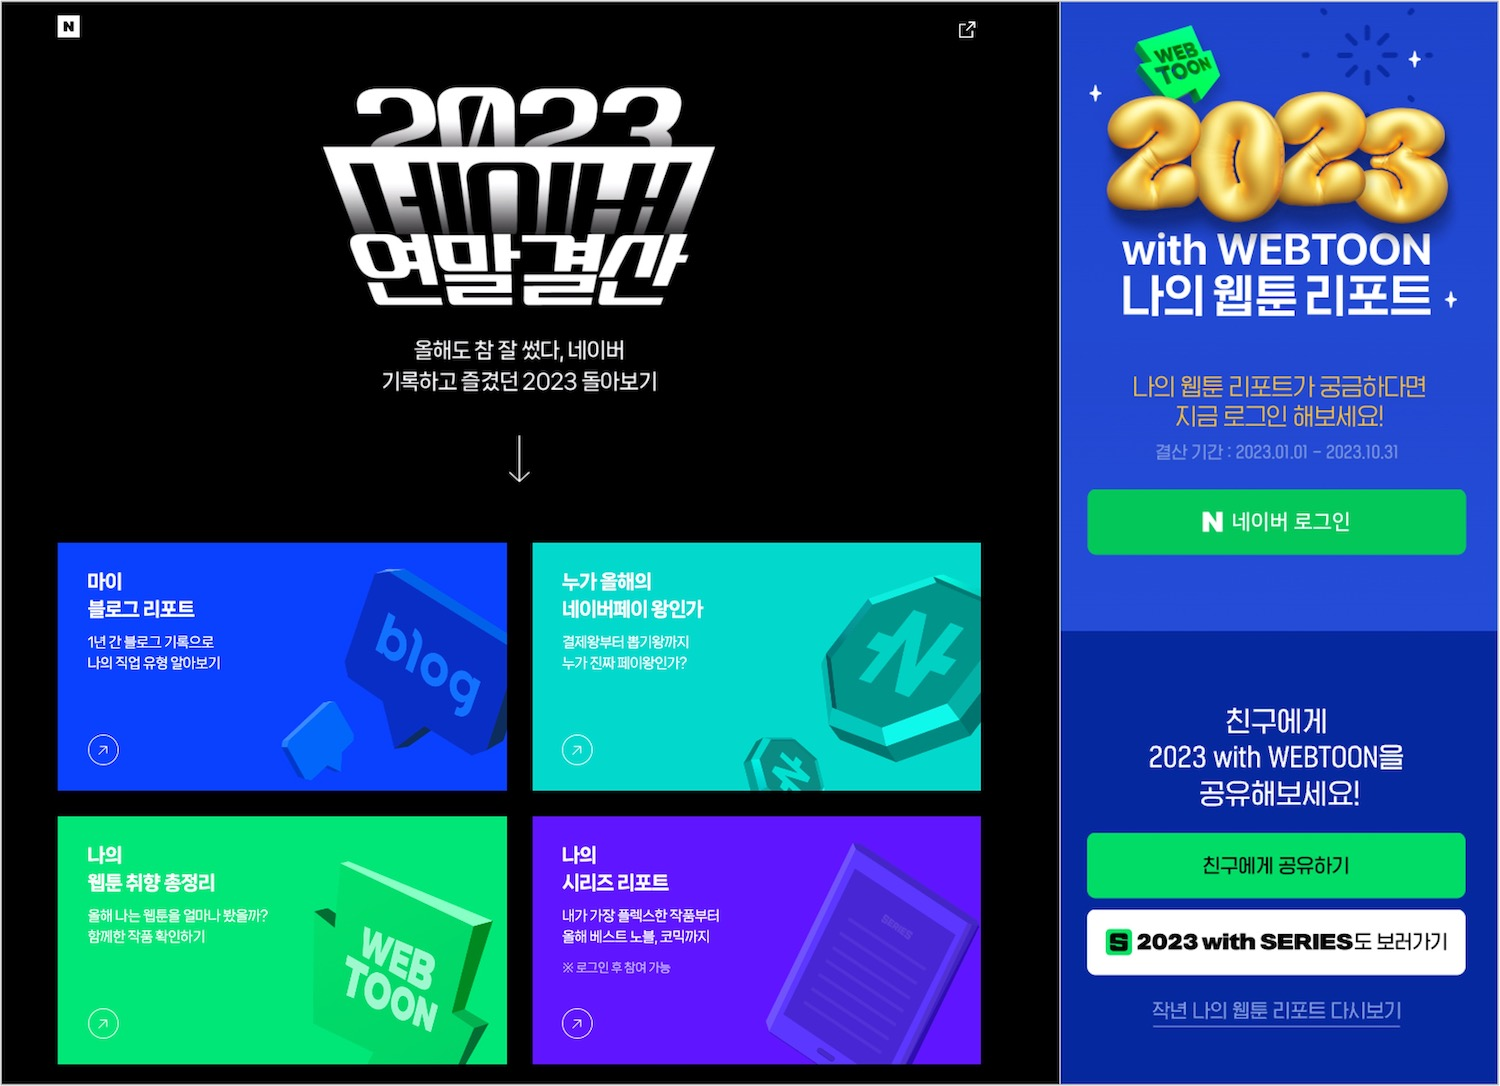
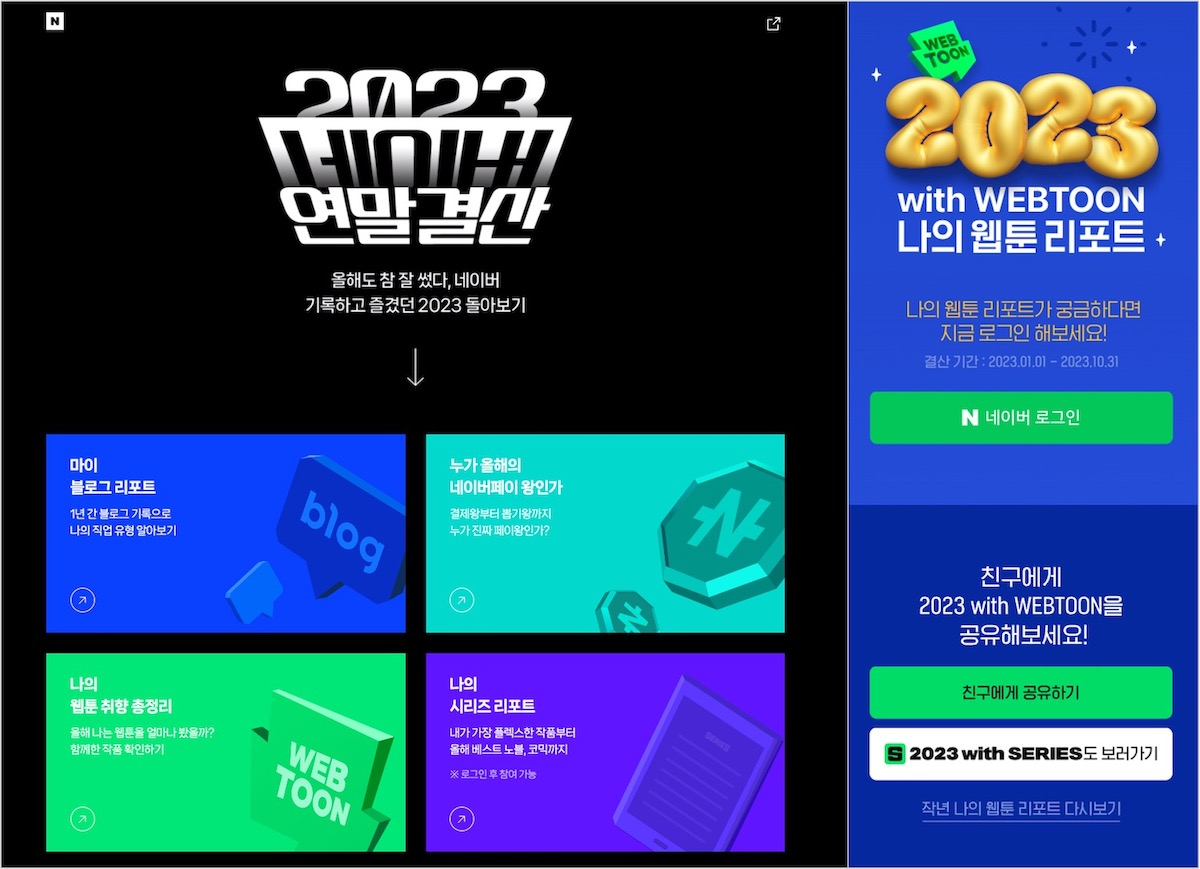
update 2023 회고 이미지 최적화 4

diff --git a/Article/Note/2023_회고_네이버웹툰_벡엔드_개발자로_일한다는것은/2023_회고_네이버웹툰_벡엔드_개발자로_일한다는것은.md b/Article/Note/2023_회고_네이버웹툰_벡엔드_개발자로_일한다는것은/2023_회고_네이버웹툰_벡엔드_개발자로_일한다는것은.md
@@ -76,7 +76,7 @@ __지금까지 작성한 회고 글__
 
 <br />
 <br />
-<img src="https://github.com/KoEonYack/Tistory-Coveant/blob/master/Article/Note/2023_%ED%9A%8C%EA%B3%A0_%EB%84%A4%EC%9D%B4%EB%B2%84%EC%9B%B9%ED%88%B0_%EB%B2%A1%EC%97%94%EB%93%9C_%EA%B0%9C%EB%B0%9C%EC%9E%90%EB%A1%9C_%EC%9D%BC%ED%95%9C%EB%8B%A4%EB%8A%94%EA%B2%83%EC%9D%80/img/home.jpg?raw=true" align="center" style="display: block; margin: 0px auto; display: block; height: auto; border:1px solid #eaeaea; padding: 0px;" width="100%" >
+<img src="https://github.com/KoEonYack/Tistory-Coveant/blob/master/Article/Note/2023_%ED%9A%8C%EA%B3%A0_%EB%84%A4%EC%9D%B4%EB%B2%84%EC%9B%B9%ED%88%B0_%EB%B2%A1%EC%97%94%EB%93%9C_%EA%B0%9C%EB%B0%9C%EC%9E%90%EB%A1%9C_%EC%9D%BC%ED%95%9C%EB%8B%A4%EB%8A%94%EA%B2%83%EC%9D%80/img/home_v2.jpg?raw=true" align="center" style="display: block; margin: 0px auto; display: block; height: auto; border:1px solid #eaeaea; padding: 0px;" width="100%" >
 <br />
 <img src="https://github.com/KoEonYack/Tistory-Coveant/blob/master/Article/Note/2023_%ED%9A%8C%EA%B3%A0_%EB%84%A4%EC%9D%B4%EB%B2%84%EC%9B%B9%ED%88%B0_%EB%B2%A1%EC%97%94%EB%93%9C_%EA%B0%9C%EB%B0%9C%EC%9E%90%EB%A1%9C_%EC%9D%BC%ED%95%9C%EB%8B%A4%EB%8A%94%EA%B2%83%EC%9D%80/img/pangyo_light.jpg?raw=true" align="center" style="display: block; margin: 0px auto; display: block; height: auto; border:1px solid #eaeaea; padding: 0px;" width="100%" >
 <br />
@@ -105,7 +105,7 @@ __지금까지 작성한 회고 글__
 탁 트인 탄천이 있어서 산책하거나 뛰기에 좋습니다. 걷다 보면 사옥을 많이 만나게 되는데 NHN, 넥슨, SK플래닛 사옥 삼대장은 멀리서도 잘 보입니다. 탄천에서 바로 올라와 삼평동 쪽을 올라서 걷다 보면 더 많은 회사를 만나게 되는데 우연히 인프랩 사옥을 봐서 내적 친밀감에 사진 한방 찍었습니다. ~~(인프랩 헤비 과금러로서 인프랩 기둥 하나 제 것입니다.)~~
 
 <br />
-<img src="https://github.com/KoEonYack/Tistory-Coveant/blob/master/Article/Note/2023_%ED%9A%8C%EA%B3%A0_%EB%84%A4%EC%9D%B4%EB%B2%84%EC%9B%B9%ED%88%B0_%EB%B2%A1%EC%97%94%EB%93%9C_%EA%B0%9C%EB%B0%9C%EC%9E%90%EB%A1%9C_%EC%9D%BC%ED%95%9C%EB%8B%A4%EB%8A%94%EA%B2%83%EC%9D%80/img/gxg.jpg?raw=true" align="center" style="display: block; margin: 0px auto; display: block; height: auto; border:1px solid #eaeaea; padding: 0px;" width="100%" >
+<img src="https://github.com/KoEonYack/Tistory-Coveant/blob/master/Article/Note/2023_%ED%9A%8C%EA%B3%A0_%EB%84%A4%EC%9D%B4%EB%B2%84%EC%9B%B9%ED%88%B0_%EB%B2%A1%EC%97%94%EB%93%9C_%EA%B0%9C%EB%B0%9C%EC%9E%90%EB%A1%9C_%EC%9D%BC%ED%95%9C%EB%8B%A4%EB%8A%94%EA%B2%83%EC%9D%80/img/gxg_light.jpg?raw=true" align="center" style="display: block; margin: 0px auto; display: block; height: auto; border:1px solid #eaeaea; padding: 0px;" width="100%" >
 <br />
 <center>
 좌. 판교 테크원 내부 GXG 2023 홍보 배너 <br />
@@ -183,7 +183,7 @@ Source. NAVER WEBTOON. (*사내 사옥을 개인적인 촬영분을 공개하기
 ## 2-2. 밥
 
 <br />
-<img src="https://github.com/KoEonYack/Tistory-Coveant/blob/master/Article/Note/2023_%ED%9A%8C%EA%B3%A0_%EB%84%A4%EC%9D%B4%EB%B2%84%EC%9B%B9%ED%88%B0_%EB%B2%A1%EC%97%94%EB%93%9C_%EA%B0%9C%EB%B0%9C%EC%9E%90%EB%A1%9C_%EC%9D%BC%ED%95%9C%EB%8B%A4%EB%8A%94%EA%B2%83%EC%9D%80/img/food_light.jpg?raw=true" align="center" style="display: block; margin: 0px auto; display: block; height: auto; border:1px solid #eaeaea; padding: 0px;" width="100%" >
+<img src="https://github.com/KoEonYack/Tistory-Coveant/blob/master/Article/Note/2023_%ED%9A%8C%EA%B3%A0_%EB%84%A4%EC%9D%B4%EB%B2%84%EC%9B%B9%ED%88%B0_%EB%B2%A1%EC%97%94%EB%93%9C_%EA%B0%9C%EB%B0%9C%EC%9E%90%EB%A1%9C_%EC%9D%BC%ED%95%9C%EB%8B%A4%EB%8A%94%EA%B2%83%EC%9D%80/img/food_light_v2.jpg?raw=true" align="center" style="display: block; margin: 0px auto; display: block; height: auto; border:1px solid #eaeaea; padding: 0px;" width="100%" >
 <br />
 <center>
 신림동 시절 출근의 원동력이었던 테크원 구내식당
@@ -225,7 +225,7 @@ Source. NAVER WEBTOON. (*사내 사옥을 개인적인 촬영분을 공개하기
 ## 2-4. 춘천 커넥트원
 
 <br />
-<img src="https://github.com/KoEonYack/Tistory-Coveant/blob/master/Article/Note/2023_%ED%9A%8C%EA%B3%A0_%EB%84%A4%EC%9D%B4%EB%B2%84%EC%9B%B9%ED%88%B0_%EB%B2%A1%EC%97%94%EB%93%9C_%EA%B0%9C%EB%B0%9C%EC%9E%90%EB%A1%9C_%EC%9D%BC%ED%95%9C%EB%8B%A4%EB%8A%94%EA%B2%83%EC%9D%80/img/connect_one_light_v2.jpg?raw=true" align="center" style="display: block; margin: 0px auto; display: block; height: auto; border:1px solid #eaeaea; padding: 0px;" width="100%" >
+<img src="https://github.com/KoEonYack/Tistory-Coveant/blob/master/Article/Note/2023_%ED%9A%8C%EA%B3%A0_%EB%84%A4%EC%9D%B4%EB%B2%84%EC%9B%B9%ED%88%B0_%EB%B2%A1%EC%97%94%EB%93%9C_%EA%B0%9C%EB%B0%9C%EC%9E%90%EB%A1%9C_%EC%9D%BC%ED%95%9C%EB%8B%A4%EB%8A%94%EA%B2%83%EC%9D%80/img/connect_one_light_v3.jpeg?raw=true" align="center" style="display: block; margin: 0px auto; display: block; height: auto; border:1px solid #eaeaea; padding: 0px;" width="100%" >
 <br />
 <br />
 
@@ -238,7 +238,7 @@ Source. NAVER WEBTOON. (*사내 사옥을 개인적인 촬영분을 공개하기
 <br />
 <br />
 <br />
-<img src="https://github.com/KoEonYack/Tistory-Coveant/blob/master/Article/Note/2023_%ED%9A%8C%EA%B3%A0_%EB%84%A4%EC%9D%B4%EB%B2%84%EC%9B%B9%ED%88%B0_%EB%B2%A1%EC%97%94%EB%93%9C_%EA%B0%9C%EB%B0%9C%EC%9E%90%EB%A1%9C_%EC%9D%BC%ED%95%9C%EB%8B%A4%EB%8A%94%EA%B2%83%EC%9D%80/img/naver_light.jpg?raw=true" align="center" style="display: block; margin: 0px auto; display: block; height: auto; border:1px solid #eaeaea; padding: 0px;" width="100%" >
+<img src="https://github.com/KoEonYack/Tistory-Coveant/blob/master/Article/Note/2023_%ED%9A%8C%EA%B3%A0_%EB%84%A4%EC%9D%B4%EB%B2%84%EC%9B%B9%ED%88%B0_%EB%B2%A1%EC%97%94%EB%93%9C_%EA%B0%9C%EB%B0%9C%EC%9E%90%EB%A1%9C_%EC%9D%BC%ED%95%9C%EB%8B%A4%EB%8A%94%EA%B2%83%EC%9D%80/img/naver_light_v2.jpg?raw=true" align="center" style="display: block; margin: 0px auto; display: block; height: auto; border:1px solid #eaeaea; padding: 0px;" width="100%" >
 <br />
 <center>
 좌: 판교 라인 <br />
@@ -274,7 +274,7 @@ Source. NAVER WEBTOON. (*사내 사옥을 개인적인 촬영분을 공개하기
 웹툰에서의 가장 좋은 점은 많은 사람들이 반응하는 서비스를 개발할 수 있다는 것입니다. 올해 많은 개발을 하였지만 웹툰 PC개편, 2023 최강자전, 2023 연말결산이 기억에 남습니다.
 
 <br />
-<img src="https://github.com/KoEonYack/Tistory-Coveant/blob/master/Article/Note/2023_%ED%9A%8C%EA%B3%A0_%EB%84%A4%EC%9D%B4%EB%B2%84%EC%9B%B9%ED%88%B0_%EB%B2%A1%EC%97%94%EB%93%9C_%EA%B0%9C%EB%B0%9C%EC%9E%90%EB%A1%9C_%EC%9D%BC%ED%95%9C%EB%8B%A4%EB%8A%94%EA%B2%83%EC%9D%80/img/webtoon_pc_light.jpg?raw=true" align="center" style="display: block; margin: 0px auto; display: block; height: auto; border:1px solid #eaeaea; padding: 0px;" width="100%" >
+<img src="https://github.com/KoEonYack/Tistory-Coveant/blob/master/Article/Note/2023_%ED%9A%8C%EA%B3%A0_%EB%84%A4%EC%9D%B4%EB%B2%84%EC%9B%B9%ED%88%B0_%EB%B2%A1%EC%97%94%EB%93%9C_%EA%B0%9C%EB%B0%9C%EC%9E%90%EB%A1%9C_%EC%9D%BC%ED%95%9C%EB%8B%A4%EB%8A%94%EA%B2%83%EC%9D%80/img/webtoon_pc_light_v2.jpg?raw=true" align="center" style="display: block; margin: 0px auto; display: block; height: auto; border:1px solid #eaeaea; padding: 0px;" width="100%" >
 <br />
 <center>
 좌. <a href="https://namu.wiki/w/%EB%84%A4%EC%9D%B4%EB%B2%84%20%EC%9B%B9%ED%88%B0"> 이전 PC 웹툰 페이지 </a> <br />
@@ -290,14 +290,14 @@ Source. NAVER WEBTOON. (*사내 사옥을 개인적인 촬영분을 공개하기
 </center>
 <br />
 <br />
-<img src="https://github.com/KoEonYack/Tistory-Coveant/blob/master/Article/Note/2023_%ED%9A%8C%EA%B3%A0_%EB%84%A4%EC%9D%B4%EB%B2%84%EC%9B%B9%ED%88%B0_%EB%B2%A1%EC%97%94%EB%93%9C_%EA%B0%9C%EB%B0%9C%EC%9E%90%EB%A1%9C_%EC%9D%BC%ED%95%9C%EB%8B%A4%EB%8A%94%EA%B2%83%EC%9D%80/img/naver_yearend_light.jpg?raw=true" align="center" style="display: block; margin: 0px auto; display: block; height: auto; border:1px solid #eaeaea; padding: 0px;" width="100%" >
+<img src="https://github.com/KoEonYack/Tistory-Coveant/blob/master/Article/Note/2023_%ED%9A%8C%EA%B3%A0_%EB%84%A4%EC%9D%B4%EB%B2%84%EC%9B%B9%ED%88%B0_%EB%B2%A1%EC%97%94%EB%93%9C_%EA%B0%9C%EB%B0%9C%EC%9E%90%EB%A1%9C_%EC%9D%BC%ED%95%9C%EB%8B%A4%EB%8A%94%EA%B2%83%EC%9D%80/img/naver_yearend_light_v2.jpg?raw=true" align="center" style="display: block; margin: 0px auto; display: block; height: auto; border:1px solid #eaeaea; padding: 0px;" width="100%" >
 <br />
 <center>
 <a href="https://mkt.naver.com/p1/2023-year-end?pcode=naver_kin_1&campaign_id=2312-navermkt-001">좌. 2023 연말결산 네이버 랜딩 페이지</a> <br />
 우. 2023 네이버 웹툰 연말결산 페이지
 </center>
 <br />
-<img src="https://github.com/KoEonYack/Tistory-Coveant/blob/master/Article/Note/2023_%ED%9A%8C%EA%B3%A0_%EB%84%A4%EC%9D%B4%EB%B2%84%EC%9B%B9%ED%88%B0_%EB%B2%A1%EC%97%94%EB%93%9C_%EA%B0%9C%EB%B0%9C%EC%9E%90%EB%A1%9C_%EC%9D%BC%ED%95%9C%EB%8B%A4%EB%8A%94%EA%B2%83%EC%9D%80/img/naver_yearend_result_light.jpg?raw=true" align="center" style="display: block; margin: 0px auto; display: block; height: auto; border:1px solid #eaeaea; padding: 0px;" width="100%" >
+<img src="https://github.com/KoEonYack/Tistory-Coveant/blob/master/Article/Note/2023_%ED%9A%8C%EA%B3%A0_%EB%84%A4%EC%9D%B4%EB%B2%84%EC%9B%B9%ED%88%B0_%EB%B2%A1%EC%97%94%EB%93%9C_%EA%B0%9C%EB%B0%9C%EC%9E%90%EB%A1%9C_%EC%9D%BC%ED%95%9C%EB%8B%A4%EB%8A%94%EA%B2%83%EC%9D%80/img/naver_yearend_result_light_v2.jpg?raw=true" align="center" style="display: block; margin: 0px auto; display: block; height: auto; border:1px solid #eaeaea; padding: 0px;" width="100%" >
 <br />
 <center>
 좌. PC 페이지 개편 이후 커뮤니티에 올라온 글 <br />
@@ -322,7 +322,7 @@ Source. NAVER WEBTOON. (*사내 사옥을 개인적인 촬영분을 공개하기
 ## 4-1. 데브이벤트 프로젝트
 
 <br />
-<img src="https://github.com/KoEonYack/Tistory-Coveant/blob/master/Article/Note/2023_%ED%9A%8C%EA%B3%A0_%EB%84%A4%EC%9D%B4%EB%B2%84%EC%9B%B9%ED%88%B0_%EB%B2%A1%EC%97%94%EB%93%9C_%EA%B0%9C%EB%B0%9C%EC%9E%90%EB%A1%9C_%EC%9D%BC%ED%95%9C%EB%8B%A4%EB%8A%94%EA%B2%83%EC%9D%80/img/github_trending.jpg?raw=true" align="center" style="display: block; margin: 0px auto; display: block; height: auto; border:1px solid #eaeaea; padding: 0px;" width="100%" >
+<img src="https://github.com/KoEonYack/Tistory-Coveant/blob/master/Article/Note/2023_%ED%9A%8C%EA%B3%A0_%EB%84%A4%EC%9D%B4%EB%B2%84%EC%9B%B9%ED%88%B0_%EB%B2%A1%EC%97%94%EB%93%9C_%EA%B0%9C%EB%B0%9C%EC%9E%90%EB%A1%9C_%EC%9D%BC%ED%95%9C%EB%8B%A4%EB%8A%94%EA%B2%83%EC%9D%80/img/github_trending_v2.jpg?raw=true" align="center" style="display: block; margin: 0px auto; display: block; height: auto; border:1px solid #eaeaea; padding: 0px;" width="100%" >
 <br />
 <center>
 이 글을 언제 보더라도 <a href="https://github.com/trending?since=monthly"> Github Trending</a> 에서 항상 Dev Event를 만날 수 있었으면 좋겠습니다.
